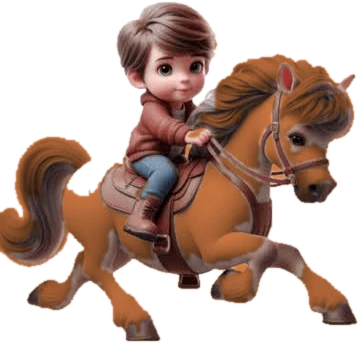
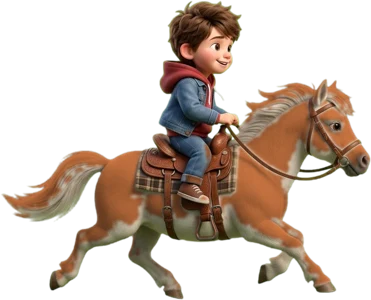
Knights chest art: user-generated archer, target, falcon, houbara, vulture, knights, courtyard, own rider sprites (replaces web image)
Claude-Session: https://claude.ai/code/session_012toAEM1r5T8jAdApdWTsPx

diff --git a/index.html b/index.html
@@ -2809,13 +2809,13 @@ function photoBg(c,x0,w,gy,par,mood,H){const SKY=jImg('img/race/sky.jpg'),SD=jIm
   if(mood==='dusk'){c.fillStyle='rgba(249,115,22,.16)';c.fillRect(x0,0,w,H)}if(mood==='night'){c.fillStyle='rgba(15,20,70,.48)';c.fillRect(x0,0,w,H);c.fillStyle='rgba(255,255,255,.85)';for(let k=0;k<50;k++)c.fillRect(x0+(k*97)%w,(k*53)%(gy*.8),1.5,1.5)}return true}
 function photoGrade(c,W,H){const lg=c.createLinearGradient(W,0,0,H);lg.addColorStop(0,'rgba(255,200,120,.16)');lg.addColorStop(.6,'rgba(255,170,90,0)');lg.addColorStop(1,'rgba(30,15,0,.14)');c.fillStyle=lg;c.fillRect(0,0,W,H);
   const vg=c.createRadialGradient(W/2,H*.55,H*.35,W/2,H*.55,H*.9);vg.addColorStop(0,'rgba(0,0,0,0)');vg.addColorStop(1,'rgba(0,0,0,.32)');c.fillStyle=vg;c.fillRect(0,0,W,H)}
-function boxArchery(){['img/race/sky.jpg','img/race/ground.jpg'].forEach(jImg);
-  const A=arena(480),{W,H,c}=A,GY=H-40,AX=50,AY=GY-60,N=10,WW=W*2.3;
+function boxArchery(){['img/race/sky.jpg','img/race/ground.jpg','img/k/archer.webp','img/k/target.webp'].forEach(jImg);
+  const A=arena(480),{W,H,c}=A,GY=H-40,AX=54,AY=GY-84,N=10,WW=W*2.3;
   let left=N,score=0,arrow=null,tgts=[],wind=0,aim=null,last=0,state='count',st={},tt=0,cam=0,camT=0,streak=0,fire=false,hold=0,pops=[],bulls=0,trail=[],round=0;
   const F=lvF(),L=curLv,POOL=L<=2?['board']:L<=4?['board','swing']:L<=6?['board','swing','balloons']:['swing','balloons','disc','board'];
   const KIND=Array.from({length:10},(_,i)=>i<2?'board':POOL[(i+L)%POOL.length]);if(L>=7){KIND[8]='disc';KIND[9]='disc'}
   const setup=()=>{const k=KIND[round];tgts=[];wind=L>=2&&round>=1?+((Math.random()*2-1)*(.3+F*1.5)).toFixed(1):0;const bx=WW*(.5+F*.2+Math.random()*.2);
-    if(k==='board')tgts.push({k,x:bx,y:rnd(Math.floor(GY-190),Math.floor(GY-60)),R:38-F*10,stuck:[],apple:Math.random()<.5});
+    if(k==='board'){const R0=38-F*10;tgts.push({k,x:bx,y:imOk(JIMG['img/k/target.webp'])?GY-R0/90*157:rnd(Math.floor(GY-190),Math.floor(GY-60)),R:R0,stuck:[],apple:Math.random()<.5})}
     if(k==='swing')tgts.push({k,x:bx,px:bx,py:40,len:rnd(130,190),a0:.35+F*.45,R:32-F*6,stuck:[],ph:Math.random()*6});
     if(k==='balloons')for(let i=0;i<4;i++)tgts.push({k:'bal',x:bx+i*26-40,y:rnd(80,Math.floor(GY-120)),r:16,col:['#EF4444','#3B82F6','#FACC15','#22C55E'][i],ph:Math.random()*6});
     if(k==='disc')tgts.push({k:'disc',x:bx,y:GY,vx:-(60+Math.random()*60),vy:-(520+Math.random()*80),r:16,live:false,t:0});
@@ -2824,7 +2824,7 @@ function boxArchery(){['img/race/sky.jpg','img/race/ground.jpg'].forEach(jImg);
   const pt=e=>{const r=A.cv.getBoundingClientRect();return {x:e.clientX-r.left,y:e.clientY-r.top}};
   A.cv.addEventListener('pointerdown',e=>{if(state!=='aim')return;const p=pt(e);aim={x0:p.x,y0:p.y,x:p.x,y:p.y}});
   A.cv.addEventListener('pointermove',e=>{if(aim){const p=pt(e);aim.x=p.x;aim.y=p.y}});
-  const shoot=(dx,dy)=>{const L=Math.hypot(dx,dy);if(L<10||state!=='aim')return;const pw=Math.min(1,L/140);arrow={x:AX+22,y:AY,vx:-dx/L*pw*1000,vy:-dy/L*pw*1000,fire};fire=false;state='fly';left--;trail=[];SFX.note(240);
+  const shoot=(dx,dy)=>{const L=Math.hypot(dx,dy);if(L<10||state!=='aim')return;const pw=Math.min(1,L/140);arrow={x:AX+30,y:AY,vx:-dx/L*pw*1000,vy:-dy/L*pw*1000,fire};fire=false;state='fly';left--;trail=[];SFX.note(240);
     tgts.forEach(T=>{if(T.k==='disc'){T.live=true;T.t=0}})};
   A.cv.addEventListener('pointerup',()=>{if(!aim)return;const a=aim;aim=null;shoot(a.x-a.x0,a.y-a.y0)});
   $('#aq').innerHTML='<span class="aqe">🏹</span><span>اسحب للخلف واترك! الكاميرا تلحق سهمك 🎥 · 3 إصابات قوية متتالية = سهم ناري 🔥 بنقاط مضاعفة</span>';$('#aopts').innerHTML='';
@@ -2835,7 +2835,9 @@ function boxArchery(){['img/race/sky.jpg','img/race/ground.jpg'].forEach(jImg);
   function scene(t){const md=L>=9?'night':L>=6||round>=8?'dusk':'day';if(!photoBg(c,0,WW,GY,-cam*.35,md,H)){desertBg(c,WW,H,0,GY,md);c.fillStyle='#C2954F';c.fillRect(0,GY,WW,H-GY)}c.fillStyle='rgba(90,60,20,.35)';c.fillRect(0,GY,WW,3);
     for(let x=150;x<WW;x+=150){c.fillStyle='#fff';c.font='bold 11px Tajawal';c.textAlign='center';c.fillText(`${Math.round(x/10)}م`,x,GY+18);c.fillRect(x-1,GY,2,6)}
     tgts.forEach(T=>{const x=tx(T),y=ty(T);
-      if(T.k==='board'||T.k==='swing'){if(T.k==='board'){c.fillStyle='#6B4423';c.fillRect(x-3,y,6,GY-y);c.fillRect(x-16,GY-5,32,5)}else{c.strokeStyle='#5B3410';c.lineWidth=2;c.beginPath();c.moveTo(T.px,T.py);c.lineTo(x,y-T.R);c.stroke();c.fillStyle='#78350F';c.fillRect(T.px-30,T.py-6,60,6)}
+      const TI=JIMG['img/k/target.webp'];if(T.k==='board'&&imOk(TI)){const sc=T.R/90;c.fillStyle='rgba(40,20,0,.3)';c.beginPath();c.ellipse(x+6,GY+2,T.R*1.1,6,0,0,7);c.fill();c.drawImage(TI,x-94*sc,y-103*sc,189*sc,260*sc);if(T.apple){c.font='18px sans-serif';c.textAlign='center';c.fillText('🍎',x,y-T.R-6)}
+        T.stuck.forEach(s=>{c.save();c.translate(x-8,y+s.dy);c.rotate(s.a);c.strokeStyle='#5B3410';c.lineWidth=3;c.beginPath();c.moveTo(-30,0);c.lineTo(0,0);c.stroke();c.fillStyle=s.f?'#F97316':'#EF4444';c.fillRect(-32,-4,8,8);c.restore()})}
+      else if(T.k==='board'||T.k==='swing'){if(T.k==='board'){c.fillStyle='#6B4423';c.fillRect(x-3,y,6,GY-y);c.fillRect(x-16,GY-5,32,5)}else{c.strokeStyle='#5B3410';c.lineWidth=2;c.beginPath();c.moveTo(T.px,T.py);c.lineTo(x,y-T.R);c.stroke();c.fillStyle='#78350F';c.fillRect(T.px-30,T.py-6,60,6)}
         ['#fff','#111','#3B82F6','#EF4444','#FACC15'].forEach((col,i)=>{c.fillStyle=col;c.beginPath();c.ellipse(x,y,T.R*.38*(1-i*.19),T.R*(1-i*.19),0,0,7);c.fill()});
         if(T.apple){c.font='18px sans-serif';c.textAlign='center';c.fillText('🍎',x,y-T.R-4)}
         T.stuck.forEach(s=>{c.save();c.translate(x,y+s.dy);c.rotate(s.a);c.strokeStyle='#5B3410';c.lineWidth=3;c.beginPath();c.moveTo(-30,0);c.lineTo(0,0);c.stroke();c.fillStyle=s.f?'#F97316':'#EF4444';c.fillRect(-32,-4,8,8);c.restore()})}
@@ -2844,12 +2846,14 @@ function boxArchery(){['img/race/sky.jpg','img/race/ground.jpg'].forEach(jImg);
     if(arrow){trail.forEach((p,i)=>{c.globalAlpha=i/trail.length*.6;c.fillStyle=arrow.fire?'#F97316':'#fff';c.beginPath();c.arc(p[0],p[1],arrow.fire?4:2,0,7);c.fill()});c.globalAlpha=1;
       c.save();c.translate(arrow.x,arrow.y);c.rotate(Math.atan2(arrow.vy,arrow.vx));if(arrow.fire){c.shadowColor='#F97316';c.shadowBlur=16}c.strokeStyle='#5B3410';c.lineWidth=3;c.beginPath();c.moveTo(-30,0);c.lineTo(0,0);c.stroke();c.fillStyle='#9CA3AF';c.beginPath();c.moveTo(7,0);c.lineTo(-2,-4);c.lineTo(-2,4);c.fill();c.fillStyle=arrow.fire?'#F97316':'#EF4444';c.fillRect(-33,-4,9,8);c.restore()}
     // archer
-    c.fillStyle='rgba(0,0,0,.2)';c.beginPath();c.ellipse(AX,GY,22,5,0,0,7);c.fill();c.fillStyle='#1E3A8A';A.rr(AX-8,AY-4,16,32,5);c.fill();c.fillStyle='#374151';c.fillRect(AX-7,AY+26,5,34);c.fillRect(AX+2,AY+26,5,34);
-    c.fillStyle='#F4C7A1';c.beginPath();c.arc(AX,AY-12,9,0,7);c.fill();c.fillStyle='#fff';c.beginPath();c.arc(AX,AY-15,10,Math.PI,0);c.fill();c.fillRect(AX-10,AY-15,5,18);c.fillStyle='#B91C1C';c.fillRect(AX-10,AY-17,20,3);
+    const AI=JIMG['img/k/archer.webp'],spr=imOk(AI);c.fillStyle='rgba(0,0,0,.25)';c.beginPath();c.ellipse(AX,GY,30,6,0,0,7);c.fill();
+    if(!spr){c.fillStyle='#1E3A8A';A.rr(AX-8,AY-4,16,32,5);c.fill();c.fillStyle='#374151';c.fillRect(AX-7,AY+26,5,34);c.fillRect(AX+2,AY+26,5,34);c.fillStyle='#F4C7A1';c.beginPath();c.arc(AX,AY-12,9,0,7);c.fill();c.fillStyle='#fff';c.beginPath();c.arc(AX,AY-15,10,Math.PI,0);c.fill();c.fillRect(AX-10,AY-15,5,18);c.fillStyle='#B91C1C';c.fillRect(AX-10,AY-17,20,3)}
     let ang=-.25,pull=0;if(aim){const dx=aim.x-aim.x0,dy=aim.y-aim.y0,L=Math.hypot(dx,dy);if(L>10){ang=Math.atan2(-dy,-dx);pull=Math.min(1,L/140)}}
-    c.save();c.translate(AX+6,AY);c.rotate(ang);c.strokeStyle='#8B4513';c.lineWidth=4;c.beginPath();c.arc(8,0,26,-1.3,1.3);c.stroke();c.strokeStyle='#eee';c.lineWidth=1.5;c.beginPath();c.moveTo(8+26*Math.cos(-1.3),26*Math.sin(-1.3));c.lineTo(8-pull*20,0);c.lineTo(8+26*Math.cos(1.3),26*Math.sin(1.3));c.stroke();
-    if(state==='aim'){if(fire){c.shadowColor='#F97316';c.shadowBlur=14}c.strokeStyle=fire?'#F97316':'#5B3410';c.lineWidth=3;c.beginPath();c.moveTo(8-pull*20,0);c.lineTo(42-pull*20,0);c.stroke();c.shadowBlur=0}c.restore();
-    if(aim&&pull>0){let x=AX+22,y=AY,vx=Math.cos(ang)*pull*1000,vy=Math.sin(ang)*pull*1000;c.fillStyle='rgba(255,255,255,.85)';for(let k=0;k<9;k++){for(let q=0;q<3;q++){vy+=520*.012;vx+=wind*70*.012;x+=vx*.012;y+=vy*.012}c.beginPath();c.arc(x,y,2.6-k*.2,0,7);c.fill()}}
+    if(spr){const ah=128,aw=ah*AI.naturalWidth/AI.naturalHeight;c.save();c.translate(AX,GY);c.rotate(Math.max(-.12,Math.min(.08,(ang+.25)*.35)));c.drawImage(AI,-aw*.45,-ah,aw,ah);c.restore()}
+    if(!spr){c.save();c.translate(AX+6,AY);c.rotate(ang);c.strokeStyle='#8B4513';c.lineWidth=4;c.beginPath();c.arc(8,0,26,-1.3,1.3);c.stroke();c.strokeStyle='#eee';c.lineWidth=1.5;c.beginPath();c.moveTo(8+26*Math.cos(-1.3),26*Math.sin(-1.3));c.lineTo(8-pull*20,0);c.lineTo(8+26*Math.cos(1.3),26*Math.sin(1.3));c.stroke();
+    if(state==='aim'){if(fire){c.shadowColor='#F97316';c.shadowBlur=14}c.strokeStyle=fire?'#F97316':'#5B3410';c.lineWidth=3;c.beginPath();c.moveTo(8-pull*20,0);c.lineTo(42-pull*20,0);c.stroke();c.shadowBlur=0}c.restore()}
+    else if(state==='aim'&&fire){c.fillStyle='#F97316';c.shadowColor='#F97316';c.shadowBlur=14;c.beginPath();c.arc(AX+40,AY,5,0,7);c.fill();c.shadowBlur=0}
+    if(aim&&pull>0){let x=AX+30,y=AY,vx=Math.cos(ang)*pull*1000,vy=Math.sin(ang)*pull*1000;c.fillStyle='rgba(255,255,255,.85)';for(let k=0;k<9;k++){for(let q=0;q<3;q++){vy+=520*.012;vx+=wind*70*.012;x+=vx*.012;y+=vy*.012}c.beginPath();c.arc(x,y,2.6-k*.2,0,7);c.fill()}}
     pops.forEach(p=>{c.globalAlpha=Math.min(1,p.t);c.fillStyle='#FFE27A';c.font='bold 22px Tajawal';c.textAlign='center';c.strokeStyle='#5B3410';c.lineWidth=3;c.strokeText(p.v,p.x,p.y);c.fillText(p.v,p.x,p.y);c.globalAlpha=1})}
   function frame(t){if(!A.alive())return;let dt=Math.min(.033,(t-(last||t))/1000);last=t;const sdt=bxSlow(st,dt);tt+=sdt;
     pops.forEach(p=>{p.t-=dt;p.y-=30*dt});pops=pops.filter(p=>p.t>0);
@@ -2881,10 +2885,10 @@ function boxArchery(){['img/race/sky.jpg','img/race/ground.jpg'].forEach(jImg);
   stat(`0/${N}`,0);requestAnimationFrame(frame)}
 
 // 2) Knights duel: combos, perfect parries, lightning strike, knockouts
-function boxDuel(){
+function boxDuel(){['img/k/courtyard.jpg','img/k/knight0.webp','img/k/knight1.webp','img/k/knight2.webp','img/k/knight3.webp','img/k/knight4.webp'].forEach(jImg);
   const A=arena(480),{W,H,c}=A,GY=H-56,PX0=W*.3,EX0=W*.7;
-  const FOES=[{n:'الفارس الأحمر',col:'#B91C1C',plume:'#FCA5A5',tel:.78,rest:[1,1.6],combo:1,feint:0,hp:6},{n:'الفارس الأسود',col:'#1F2937',plume:'#9CA3AF',tel:.62,rest:[.8,1.3],combo:2,feint:.12,hp:7},
-    {n:'فارس الرمال',col:'#B45309',plume:'#FDE68A',tel:.52,rest:[.7,1.1],combo:3,feint:.2,hp:8},{n:'الفارس المقنّع 👑',col:'#5B21B6',plume:'#F0ABFC',tel:.44,rest:[.6,1],combo:3,feint:.32,hp:10}];
+  const FOES=[{spr:'knight1',n:'الفارس الأحمر',col:'#B91C1C',plume:'#FCA5A5',tel:.78,rest:[1,1.6],combo:1,feint:0,hp:6},{spr:'knight2',n:'الفارس الأسود',col:'#1F2937',plume:'#9CA3AF',tel:.62,rest:[.8,1.3],combo:2,feint:.12,hp:7},
+    {spr:'knight3',n:'فارس الرمال',col:'#B45309',plume:'#FDE68A',tel:.52,rest:[.7,1.1],combo:3,feint:.2,hp:8},{spr:'knight4',n:'الفارس المقنّع 👑',col:'#5B21B6',plume:'#F0ABFC',tel:.44,rest:[.6,1],combo:3,feint:.32,hp:10}];
   const F=lvF(),L=curLv,NF=Math.min(4,1+Math.floor((L-1)/3)),FS=[...FOES.slice(Math.max(0,Math.min(3,Math.floor((L-1)/2))-NF+1)).slice(0,NF)];while(FS.length<NF)FS.push(FOES[3]);
   FS.forEach((f,i)=>{FS[i]={...f,tel:f.tel*(1.15-F*.35),hp:f.hp+Math.floor(L/3),combo:Math.min(3,f.combo+(L>=8?1:0)),feint:Math.min(.45,f.feint+F*.15)}});
   let fi=0,foe,ehp,php=6,es='idle',et=1.2,side='H',seq=[],guard=null,gT=0,gAge=0,stabT=0,cd=0,lunge=0,elunge=0,ekb=0,pkb=0,last=0,state='count',st={},shake=0,beaten=0,blocks=0,perfects=0,flash=0,meter=0,bolt=0,zoom=1,sparks=[],ko=0,crowd=0;
@@ -2905,7 +2909,9 @@ function boxDuel(){
   bxSwipe(A,d=>act(d==='U'?'H':d==='D'?'L':'S'),()=>act('S'));bxKeys(A,m=>act(m==='U'?'H':m==='D'?'L':m==='S'||m==='R'?'S':null));
   $('#aq').innerHTML='<span class="aqe">⚔</span><span>سيف الخصم ⬆ = صدّ علوي · ⬇ = صدّ سفلي (أو اسحب للأعلى/للأسفل). الصدّ في آخر لحظة = ⚡ مثالي ويشحن ضربة البرق!</span>';
   window._arc={act,get es(){return es},get side(){return side},get state(){return state},get fi(){return fi},get ehp(){return ehp},get php(){return php},get meter(){return meter},get et(){return et}};
-  function knight(x,dir,col,plume,pose,lg,t,hurt,fall){c.save();c.translate(x+dir*lg*30,GY);if(fall){c.rotate(-dir*fall*1.4)}c.scale(dir,1);if(hurt>0)c.globalAlpha=.65;
+  function knight(x,dir,col,plume,pose,lg,t,hurt,fall,spr){const KI=spr&&JIMG['img/k/'+spr+'.webp'];if(KI&&imOk(KI)){const kh=Math.min(190,H*.42),kw=kh*KI.naturalWidth/KI.naturalHeight,rot=(pose==='H'||pose==='GH'?-.09:pose==='L'||pose==='GL'?.1:pose==='S'?.08:0)*dir,bob=Math.sin(t/180)*2;
+    c.save();c.translate(x+dir*lg*34,GY);c.fillStyle='rgba(30,15,0,.35)';c.beginPath();c.ellipse(0,0,kw*.42,8,0,0,7);c.fill();if(fall)c.rotate(-dir*fall*1.4);c.rotate(rot);if(hurt>0){c.globalAlpha=.7;c.filter='brightness(1.8)'}c.drawImage(KI,-kw*.5,-kh+bob,kw,kh);c.filter='none';c.restore();return}
+    c.save();c.translate(x+dir*lg*30,GY);if(fall){c.rotate(-dir*fall*1.4)}c.scale(dir,1);if(hurt>0)c.globalAlpha=.65;
     c.fillStyle='rgba(0,0,0,.22)';c.beginPath();c.ellipse(0,0,28,6,0,0,7);c.fill();const bob=Math.sin(t/180)*2;
     c.fillStyle='#4B5563';c.save();c.translate(-8,-34);c.rotate(pose==='S'?-.3:0);c.fillRect(-4,0,9,34);c.restore();c.fillRect(3,-34,9,34);c.fillStyle='#111';c.fillRect(-14,-4,13,5);c.fillRect(2,-4,13,5);
     const ag=c.createLinearGradient(0,-82,0,-34);ag.addColorStop(0,'#E5E7EB');ag.addColorStop(1,'#9CA3AF');c.fillStyle=ag;A.rr(-17,-82+bob,34,50,9);c.fill();c.fillStyle=col;c.beginPath();c.moveTo(-14,-78+bob);c.lineTo(14,-78+bob);c.lineTo(10,-34+bob);c.lineTo(-10,-34+bob);c.fill();
@@ -2927,19 +2933,23 @@ function boxDuel(){
       else if((es==='stun'||es==='parry')&&et<=0){es='idle';et=rnd(foe.rest[0]*10,foe.rest[1]*10)/10}}
     sparks.forEach(p=>{p.x+=p.vx*dt;p.y+=p.vy*dt;p.vy+=500*dt;p.l-=dt});sparks=sparks.filter(p=>p.l>0);
     c.save();if(shake>0)c.translate((Math.random()-.5)*shake*22,(Math.random()-.5)*shake*8);c.translate(W/2,GY-70);c.scale(zoom,zoom);c.translate(-W/2,-(GY-70));
-    const g=c.createLinearGradient(0,0,0,H);g.addColorStop(0,L>=9?'#1E1B4B':L>=6?'#F97316':'#7DD3FC');g.addColorStop(1,L>=9?'#7C3AED':L>=6?'#FDE68A':'#E0F2FE');c.fillStyle=g;c.fillRect(-40,-40,W+80,H+80);
+    const CY=JIMG['img/k/courtyard.jpg'];if(imOk(CY)){const sc=Math.max((W+80)/CY.naturalWidth,(GY+30)/(CY.naturalHeight*.86)),iw=CY.naturalWidth*sc,ih=CY.naturalHeight*sc;c.drawImage(CY,W/2-iw/2,GY+18-ih*.93,iw,ih);
+      if(L>=9){c.fillStyle='rgba(15,20,70,.45)';c.fillRect(-40,-40,W+80,H+80)}else if(L>=6){c.fillStyle='rgba(249,115,22,.14)';c.fillRect(-40,-40,W+80,H+80)}
+      if(crowd>0)for(let k=0;k<10;k++){const x=k*W/9,hop=Math.abs(Math.sin(t/70+k))*12*crowd;c.font='18px sans-serif';c.textAlign='center';c.fillText(['🎉','👏','🙌','⭐'][k%4],x,GY-150-hop)}}
+    else{    const g=c.createLinearGradient(0,0,0,H);g.addColorStop(0,L>=9?'#1E1B4B':L>=6?'#F97316':'#7DD3FC');g.addColorStop(1,L>=9?'#7C3AED':L>=6?'#FDE68A':'#E0F2FE');c.fillStyle=g;c.fillRect(-40,-40,W+80,H+80);
     c.fillStyle='#A8A29E';c.fillRect(-40,H*.2,W+80,GY-H*.2);for(let k=-2;k<W/30+2;k++)c.fillRect(k*30,H*.2-14,18,14);c.fillStyle='rgba(0,0,0,.08)';for(let y=H*.2;y<GY;y+=18)for(let x=(y/18)%2*20-40;x<W+40;x+=40)c.fillRect(x,y,38,16);
     for(let k=0;k<18;k++){const x=k*W/17,hop=crowd*Math.abs(Math.sin(t/70+k))*10;c.fillStyle=['#EF4444','#FACC15','#3B82F6','#22C55E','#F472B6'][k%5];c.beginPath();c.arc(x,H*.2-22-hop,8,0,7);c.fill();c.fillRect(x-8,H*.2-22-hop,16,14)}
     ['#EF4444','#3B82F6','#FACC15','#22C55E'].forEach((col,i)=>{const x=W*(.12+i*.25),wv=Math.sin(t/300+i)*3;c.fillStyle=col;c.beginPath();c.moveTo(x,H*.25);c.lineTo(x+24,H*.25);c.lineTo(x+24+wv,H*.4);c.lineTo(x+12,H*.36);c.lineTo(x+wv,H*.4);c.fill()});
     c.fillStyle='#D6B27A';c.fillRect(-40,GY,W+80,H);c.fillStyle='#B8935A';c.fillRect(-40,GY,W+80,4);
-    if(foe){const ep=ko?'N':es==='tel'?side:es==='parry'?'GH':elunge>0?'S':'N';knight(EX0+ekb*34,-1,foe.col,foe.plume,ep,elunge,t,flash,ko);
+    }
+    if(foe){const ep=ko?'N':es==='tel'?side:es==='parry'?'GH':elunge>0?'S':'N';knight(EX0+ekb*34,-1,foe.col,foe.plume,ep,elunge,t,flash,ko,foe.spr);
       if(es==='tel'&&!ko){const p=1-et/foe.tel;c.save();c.globalAlpha=.35+p*.5;c.fillStyle=side==='H'?'#EF4444':'#F97316';c.beginPath();c.arc(EX0-44,GY-(side==='H'?112:44),14+p*10,0,7);c.fill();c.restore();c.font='bold 34px sans-serif';c.textAlign='center';c.fillText(side==='H'?'⬆':'⬇',EX0,GY-150);
         c.strokeStyle='#fff';c.lineWidth=4;c.beginPath();c.arc(EX0,GY-162,22,-Math.PI/2,-Math.PI/2+Math.PI*2*(1-p));c.stroke();if(seq.length){c.fillStyle='#fff';c.font='bold 13px Tajawal';c.fillText(`سلسلة ×${seq.length+1}`,EX0,GY-192)}}
       if(es==='stun'&&!ko){c.font='26px sans-serif';c.textAlign='center';c.fillText('💫',EX0+Math.sin(t/100)*10,GY-140)}}
-    knight(PX0-pkb*30,1,'#1D4ED8','#93C5FD',stabT>.25?'S':guard==='H'?'GH':guard==='L'?'GL':'N',lunge,t,pkb>.5?.1:0,0);
+    knight(PX0-pkb*30,1,'#1D4ED8','#93C5FD',stabT>.25?'S':guard==='H'?'GH':guard==='L'?'GL':'N',lunge,t,pkb>.5?.1:0,0,'knight0');
     if(bolt>0){c.strokeStyle=`rgba(124,247,255,${bolt*1.6})`;c.lineWidth=5;c.beginPath();let x=EX0,y=-10;c.moveTo(x,y);while(y<GY-60){x+=(Math.random()-.5)*40;y+=30;c.lineTo(x,y)}c.stroke();c.fillStyle=`rgba(255,255,255,${bolt*.5})`;c.fillRect(-40,-40,W+80,H+80)}
     sparks.forEach(p=>{c.globalAlpha=Math.max(0,p.l*1.6);c.strokeStyle=p.c;c.lineWidth=2.5;c.beginPath();c.moveTo(p.x,p.y);c.lineTo(p.x-p.vx*.03,p.y-p.vy*.03);c.stroke()});c.globalAlpha=1;
-    A.stepParts(dt);c.restore();
+    A.stepParts(dt);c.restore();photoGrade(c,W,H);
     const bar=(x,v,m,col,lab)=>{c.fillStyle='rgba(0,0,0,.5)';A.rr(x,38,W*.42,26,13);c.fill();c.fillStyle=col;A.rr(x+3,41,(W*.42-6)*Math.max(0,v)/m,20,10);c.fill();c.fillStyle='#fff';c.font='bold 12px Tajawal';c.textAlign='center';c.fillText(lab,x+W*.21,56)};
     bar(W*.04,php,6,'#3B82F6','🛡 أنت');if(foe)bar(W*.54,ehp,foe.hp,foe.col,foe.n);
     c.fillStyle='rgba(0,0,0,.45)';A.rr(W*.04,68,W*.42,10,5);c.fill();c.fillStyle=meter>=1?`hsl(${(t/4)%360},90%,65%)`:'#7CF7FF';A.rr(W*.04,68,W*.42*meter,10,5);c.fill();c.fillStyle='#fff';c.font='10px Tajawal';c.textAlign='center';c.fillText(meter>=1?'⚡ البرق جاهز!':'⚡ شحن البرق',W*.25,92);
@@ -3090,7 +3100,7 @@ function boxShowJump(){['img/race/sky.jpg','img/jump/arena.webp','img/race/groun
   stat(`0/${N}`,0);requestAnimationFrame(frame)}
 
 // 5) Falconry: drag to fly, tap to strike-dive, chain catches, golden houbara, sandstorm
-function boxFalcon(){['img/race/sky.jpg','img/race/ground.jpg'].forEach(jImg);
+function boxFalcon(){['img/race/sky.jpg','img/race/ground.jpg','img/k/falcon.webp','img/k/houbara.webp','img/k/vulture.webp'].forEach(jImg);
   const F=lvF(),LVL=curLv,A=arena(480),{W,H,c}=A,FX0=W*.28,TIME=50+LVL*3,GY=H-30;
   let fx=FX0,fy=H*.45,ty=fy,vy=0,hp=3,inv=0,catches=0,pts=0,prey=[],foes=[],last=0,state='count',st={},tleft=TIME,spT=0,foeT=2.5,off=0,dive=null,dcd=0,chain=0,chainT=0,best=0,storm=0,sand=[],pops=[],trail=[],gold=0,ko=0;
   const set=e=>{const r=A.cv.getBoundingClientRect();ty=Math.max(40,Math.min(GY-20,e.clientY-r.top))};
@@ -3103,7 +3113,8 @@ function boxFalcon(){['img/race/sky.jpg','img/race/ground.jpg'].forEach(jImg);
   $('#aopts').innerHTML='<button class="btn full sword" id="fcS" style="font-size:20px;padding:14px">🦅 انقضاض!</button>';$('#fcS').addEventListener('pointerdown',e=>{e.preventDefault();strike()});
   $('#aq').innerHTML='<span class="aqe">🦅</span><span>اسحب لتحريك الصقر، واضغط «انقضاض» ليندفع نحو أقرب فريسة! الصيد المتتالي يضاعف النقاط، والانقضاض يطيح بالنسور ✨ ابحث عن الحبارى الذهبية!</span>';
   window._arc={get fy(){return fy},get fx(){return fx},set ty(v){ty=v},strike,get prey(){return prey},get foes(){return foes},get state(){return state},get pts(){return pts},get dive(){return dive},get dcd(){return dcd}};
-  function falcon(x,y,t){c.save();c.translate(x,y);c.rotate(dive?.15:Math.max(-.5,Math.min(.6,vy/500)));c.globalAlpha=inv>0&&Math.floor(t/90)%2?.45:1;const w=dive?-.3:Math.sin(t/110);
+  function falcon(x,y,t){const FI=JIMG['img/k/falcon.webp'];if(imOk(FI)){const fh=58,fw=fh*FI.naturalWidth/FI.naturalHeight,fl=dive?.82:1+Math.sin(t/85)*.14;c.save();c.translate(x,y);c.rotate(dive?.22:Math.max(-.4,Math.min(.5,vy/600)));c.globalAlpha=inv>0&&Math.floor(t/90)%2?.45:1;if(dive){c.shadowColor='#FCD34D';c.shadowBlur=20}c.scale(1,fl);c.drawImage(FI,-fw*.55,-fh*.55,fw,fh);c.restore();return}
+    c.save();c.translate(x,y);c.rotate(dive?.15:Math.max(-.5,Math.min(.6,vy/500)));c.globalAlpha=inv>0&&Math.floor(t/90)%2?.45:1;const w=dive?-.3:Math.sin(t/110);
     if(dive){c.shadowColor='#FCD34D';c.shadowBlur=18}c.fillStyle='#6B4423';c.beginPath();c.moveTo(-22,0);c.lineTo(-38,-7);c.lineTo(-38,7);c.fill();
     const bg=c.createLinearGradient(0,-10,0,10);bg.addColorStop(0,'#A0692E');bg.addColorStop(1,'#6B4423');c.fillStyle=bg;c.beginPath();c.ellipse(0,0,23,10,0,0,7);c.fill();c.fillStyle='#F5E6C8';c.beginPath();c.ellipse(4,4,14,6,0,0,7);c.fill();
     c.fillStyle='#7A4E2B';for(let k=0;k<4;k++){c.beginPath();c.arc(-2+k*5,4,1.3,0,7);c.fill()}
@@ -3129,10 +3140,13 @@ function boxFalcon(){['img/race/sky.jpg','img/race/ground.jpg'].forEach(jImg);
     sand.forEach(s=>s.x-=s.v*rdt);sand=sand.filter(s=>s.x>-10);
     {const md=LVL>=9?'night':storm>.3||LVL>=7?'dusk':'day';if(!photoBg(c,0,W,GY,off*.05,md,H)){desertBg(c,W,H,off,GY,md);c.fillStyle='#E8C887';c.fillRect(0,GY,W,H-GY)}}
     
-    prey.forEach(p=>{c.save();c.translate(p.x,p.y);c.scale(-1,1);const w=Math.sin(p.ph*3);if(p.k==='gold'){c.shadowColor='#FACC15';c.shadowBlur=16}
+    const HB=JIMG['img/k/houbara.webp'],VU=JIMG['img/k/vulture.webp'];
+    prey.forEach(p=>{if(p.k!=='pig'&&imOk(HB)){const hh=p.k==='gold'?40:36,hw=hh*HB.naturalWidth/HB.naturalHeight;c.save();c.translate(p.x,p.y);c.scale(1,1+Math.sin(p.ph*3)*.1);if(p.k==='gold'){c.shadowColor='#FACC15';c.shadowBlur=22}c.drawImage(HB,-hw/2,-hh/2,hw,hh);if(p.k==='gold'){c.globalCompositeOperation='source-atop';c.fillStyle='rgba(250,204,21,.45)';c.fillRect(-hw/2,-hh/2,hw,hh)}c.restore();return}
+      c.save();c.translate(p.x,p.y);c.scale(-1,1);const w=Math.sin(p.ph*3);if(p.k==='gold'){c.shadowColor='#FACC15';c.shadowBlur=16}
       if(p.k!=='pig'){c.fillStyle=p.k==='gold'?'#FACC15':'#D6B98A';c.beginPath();c.ellipse(0,0,14,8,0,0,7);c.fill();c.fillStyle='#fff';c.beginPath();c.ellipse(2,3,8,4,0,0,7);c.fill();c.fillStyle='#111';c.fillRect(8,-10,3,8);c.fillStyle=p.k==='gold'?'#FDE68A':'#C2A272';c.beginPath();c.arc(12,-8,5,0,7);c.fill();c.fillStyle=p.k==='gold'?'#EAB308':'#A3845A';c.beginPath();c.moveTo(-4,-2);c.lineTo(4,-14*w-4);c.lineTo(8,-2);c.fill()}
       else{c.fillStyle='#9CA3AF';c.beginPath();c.ellipse(0,0,10,6,0,0,7);c.fill();c.fillStyle='#6B7280';c.beginPath();c.arc(9,-3,4,0,7);c.fill();c.fillStyle='#4B5563';c.beginPath();c.moveTo(-3,-1);c.lineTo(3,-12*w-3);c.lineTo(6,-1);c.fill()}c.restore()});
-    foes.forEach(f=>{c.save();c.translate(f.x,f.y);c.scale(-1,1);if(f.ko)c.rotate(f.ph);const w=Math.sin(f.ph*2);c.fillStyle='#1F2937';c.beginPath();c.ellipse(0,0,22,9,0,0,7);c.fill();c.beginPath();c.moveTo(-10,-2);c.lineTo(4,-30*w-6);c.lineTo(14,-2);c.fill();c.beginPath();c.moveTo(-10,2);c.lineTo(2,24*w+6);c.lineTo(12,2);c.fill();
+    foes.forEach(f=>{if(imOk(VU)){const vh=50,vw=vh*VU.naturalWidth/VU.naturalHeight;c.save();c.translate(f.x,f.y);if(f.ko)c.rotate(f.ph);c.scale(1,1+Math.sin(f.ph*2)*.12);c.drawImage(VU,-vw/2,-vh/2,vw,vh);c.restore();return}
+      c.save();c.translate(f.x,f.y);c.scale(-1,1);if(f.ko)c.rotate(f.ph);const w=Math.sin(f.ph*2);c.fillStyle='#1F2937';c.beginPath();c.ellipse(0,0,22,9,0,0,7);c.fill();c.beginPath();c.moveTo(-10,-2);c.lineTo(4,-30*w-6);c.lineTo(14,-2);c.fill();c.beginPath();c.moveTo(-10,2);c.lineTo(2,24*w+6);c.lineTo(12,2);c.fill();
       c.fillStyle='#F3C9C9';c.beginPath();c.arc(22,-6,6,0,7);c.fill();c.fillStyle='#FCD34D';c.beginPath();c.moveTo(27,-6);c.lineTo(34,-2);c.lineTo(27,-2);c.fill();c.fillStyle='#EF4444';c.beginPath();c.arc(23,-8,1.6,0,7);c.fill();c.restore()});
     trail.forEach((p,i)=>{c.globalAlpha=i/trail.length*.5;c.fillStyle='#FCD34D';c.beginPath();c.arc(p[0],p[1],6*(i/trail.length),0,7);c.fill()});c.globalAlpha=1;
     falcon(fx,fy,t);A.stepParts(dt,0);photoGrade(c,W,H);
@@ -3998,7 +4012,7 @@ async function openAdmin(){
 $('#admBack').onclick=()=>{hide('adm');history.replaceState(null,'',location.pathname)};
 $('#admRef').onclick=()=>openAdmin();
 // ---- Auto-update: reload when a newer version is published
-const APP_VERSION='2026.11.21-76';
+const APP_VERSION='2026.11.21-77';
 (async()=>{try{if(!/^https?:/.test(location.protocol))return;const r=await fetch(location.pathname+'?check='+Date.now(),{cache:'no-store'});if(!r.ok)return;const t=await r.text(),m=t.match(/const APP_VERSION='([^']+)'/);
   if(m&&m[1]!==APP_VERSION&&sessionStorage.getItem('bw_upd')!==m[1]){sessionStorage.setItem('bw_upd',m[1]);location.replace(location.pathname+'?v='+encodeURIComponent(m[1])+location.hash)}}catch(e){}})();
 // ---- Friends: invite codes, preset voice messages, challenges, leaderboard
